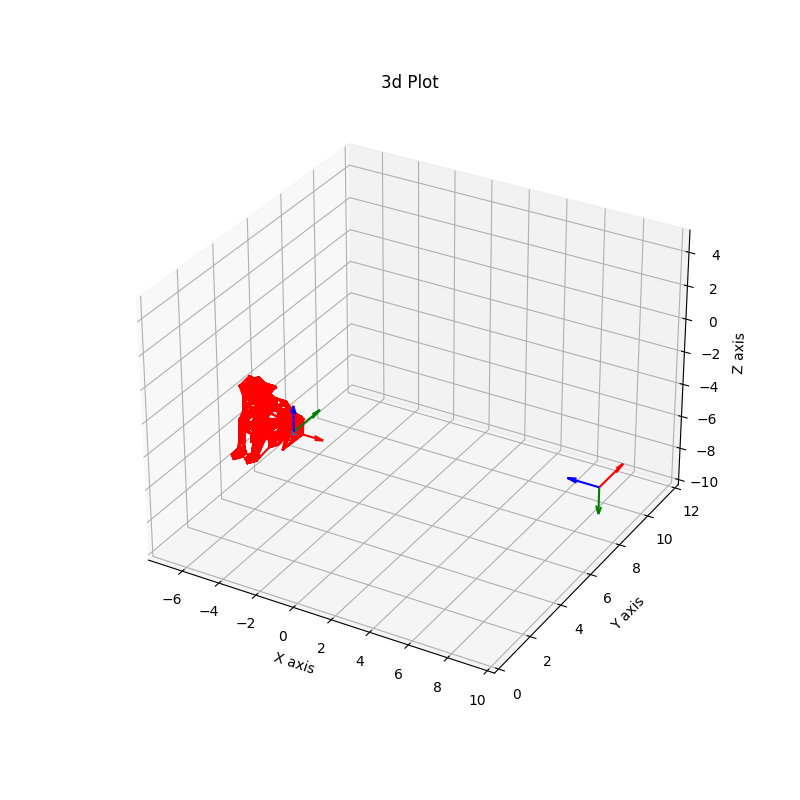
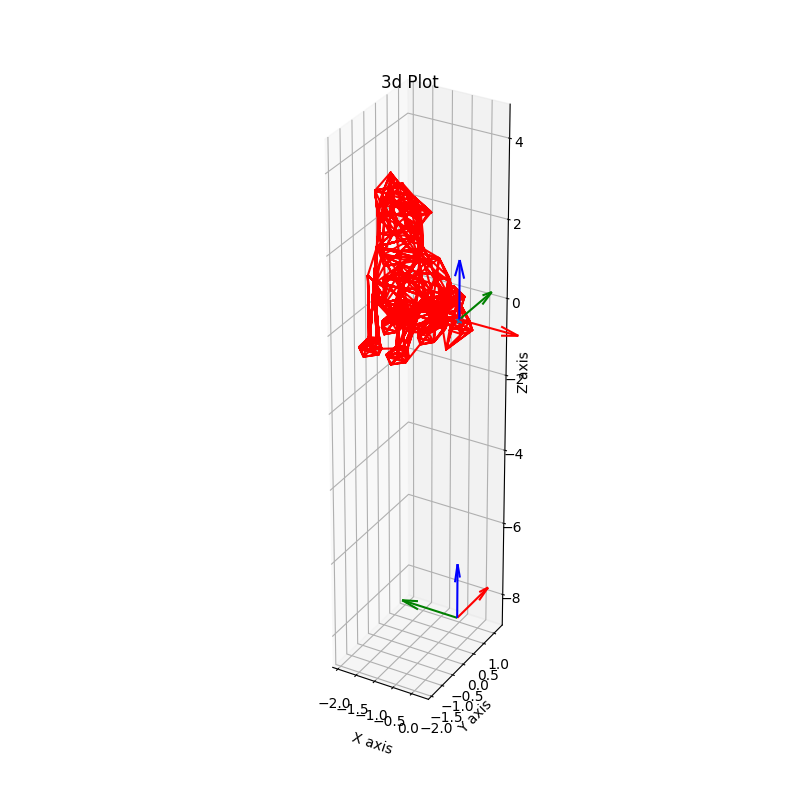
final?

diff --git a/src/plot_utils.py b/src/plot_utils.py
@@ -10,11 +10,11 @@ def set_plot(ax=None,figure = None):
         ax = plt.axes()
     
     ax.set_title("3d Plot")
-    ax.set_xlim((-7.5,10))
+    #ax.set_xlim((-7.5,10))
     ax.set_xlabel("X axis")
-    ax.set_ylim((0,12))
+    #ax.set_ylim((0,12))
     ax.set_ylabel("Y axis")
-    ax.set_zlim((-10,5))
+    #ax.set_zlim((-10,5))
     ax.set_zlabel("Z axis")
     return ax
 

diff --git a/src/change_state.py b/src/change_state.py
@@ -83,6 +83,8 @@ def gerar_imagens(cam,obj):
 
     draw_arrows(cam.cam[:,-1],cam.cam[:,0:3],ax0)
 
+    ax0.set_aspect('equal')
+
     plt.savefig("static/fig.png")
 
     image_x,image_y = cam.get_pose(obj.object)
